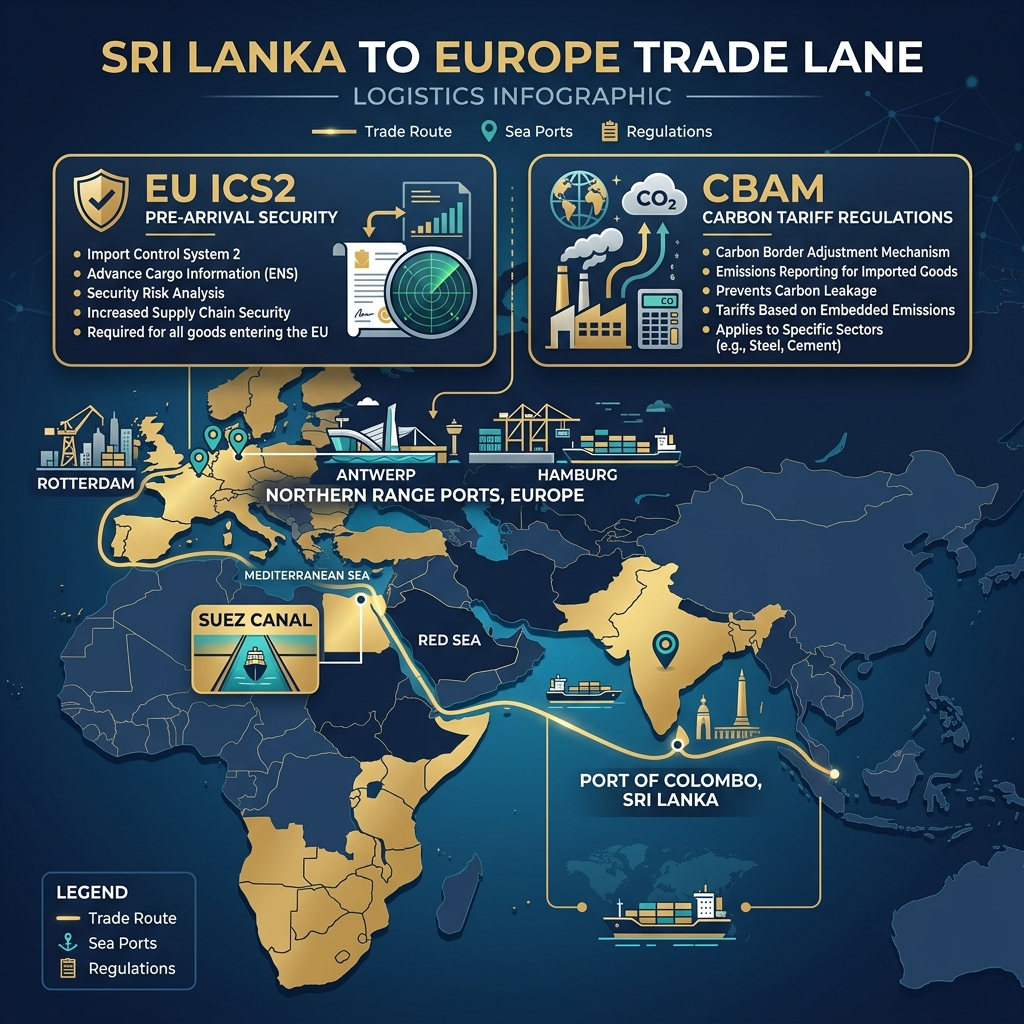
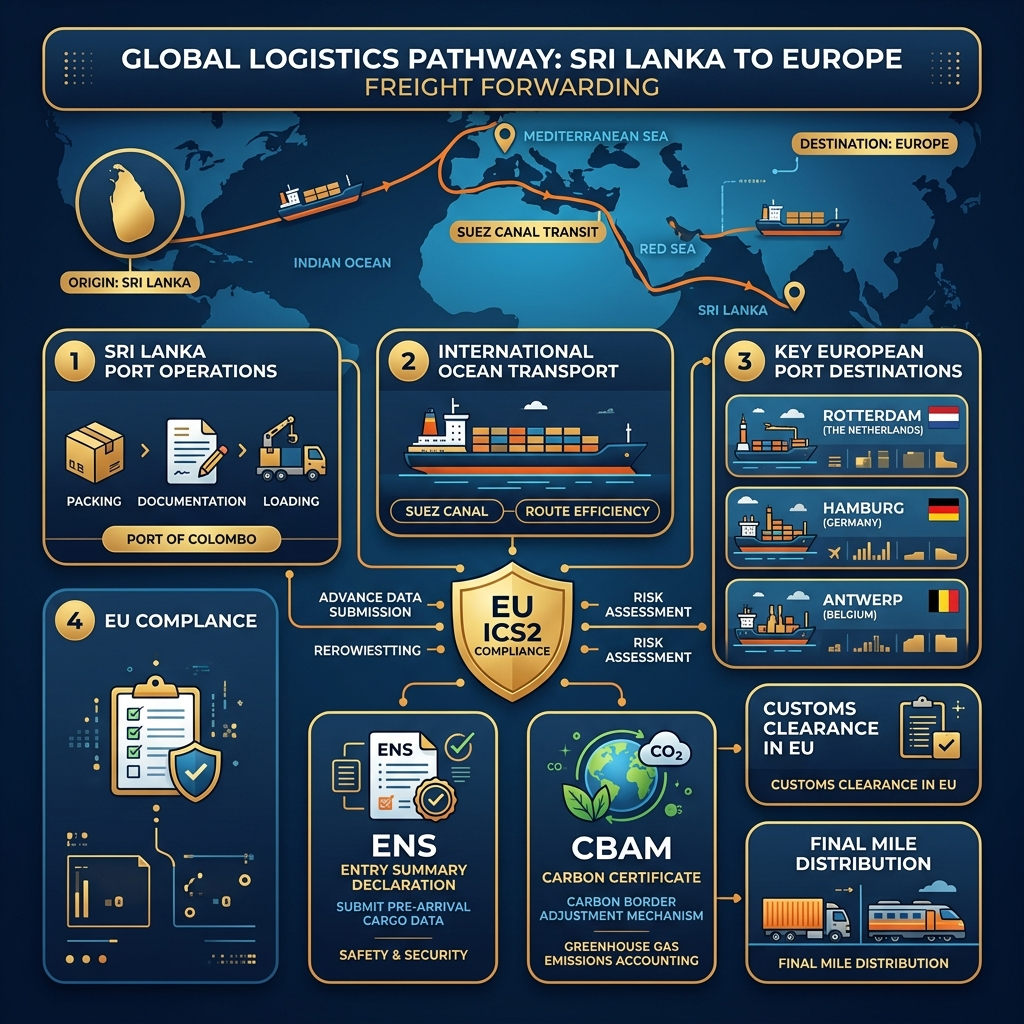
8 11 1

diff --git a/knowledge_base.js b/knowledge_base.js
@@ -2046,6 +2046,61 @@ var NEXUS_KNOWLEDGE_BASE = window.NEXUS_KNOWLEDGE_BASE = {
             </ul>
           `,
           youtube: "https://www.youtube.com/embed/fK6aeyEQMGk"
+        },
+        {
+          id: "fmc-rate-filing",
+          title: "FMC Rate Filing",
+          summary: "US Federal Maritime Commission tariffs, NRAs, NSAs, and OSRA 2022 compliance.",
+          image: "images/fmc_rate_filing.png",
+          content: `
+            <img src="images/fmc_rate_filing.png" alt="fmc-rate-filing infographic" class="kb-infographic" />
+
+            <p>In US ocean freight shipping, the <strong>Federal Maritime Commission (FMC)</strong> strictly regulates all ocean common carriers (VOCCs) and Non-Vessel Operating Common Carriers (NVOCCs) under the Shipping Act of 1984, OSRA 1998, and the <strong>Ocean Shipping Reform Act of 2022 (OSRA 2022)</strong>. All rates, surcharges, and rules applied to US import and export shipments must be filed or published in strict accordance with FMC regulations.</p>
+
+            <div style="margin:30px 0; background: linear-gradient(135deg, #0F172A 0%, #1E293B 100%); border:2px solid #38BDF8; padding:25px; border-radius:16px; font-family:'Outfit', sans-serif; color:#FFF;">
+              <h4 style="margin:0 0 15px 0; color:#38BDF8; font-size:1.3rem; text-align:center;">🏛 THE 3 CORE FMC COMPLIANCE PATHWAYS FOR NVOCCs</h4>
+              <p style="font-size:0.95rem; color:#94A3B8; line-height:1.6; margin:0 0 20px 0; text-align:center;">An NVOCC shipping ocean cargo to or from the United States cannot simply quote rates verbally. They must operate under one of three legally binding FMC tariff frameworks:</p>
+              
+              <div style="display:grid; grid-template-columns: repeat(auto-fit, minmax(220px, 1fr)); gap:15px;">
+                <div style="background:rgba(255,255,255,0.06); border:1px solid rgba(255,255,255,0.15); padding:20px; border-radius:12px; border-top:4px solid #38BDF8;">
+                  <strong style="color:#38BDF8; font-size:1.1rem; display:block; margin-bottom:8px;">1. Automated Public Tariffs (46 CFR Part 520)</strong>
+                  <p style="font-size:0.88rem; color:#CBD5E1; line-height:1.5; margin:0;">Historically mandatory for all rates. Rates, rules, and surcharges are published in an electronic public tariff system accessible 24/7 to the public. Subject to strict advance notice rules.</p>
+                </div>
+
+                <div style="background:rgba(255,255,255,0.06); border:1px solid rgba(255,255,255,0.15); padding:20px; border-radius:12px; border-top:4px solid #F59E0B;">
+                  <strong style="color:#F59E0B; font-size:1.1rem; display:block; margin-bottom:8px;">2. NRAs (Negotiated Rate Arrangements - 46 CFR Part 532)</strong>
+                  <p style="font-size:0.88rem; color:#CBD5E1; line-height:1.5; margin:0;">The most common exemption. Allows NVOCCs and shippers to agree on a specific spot rate in writing (e.g., email or quotation) prior to cargo receipt at origin, exempting the rate from public tariff filing.</p>
+                </div>
+
+                <div style="background:rgba(255,255,255,0.06); border:1px solid rgba(255,255,255,0.15); padding:20px; border-radius:12px; border-top:4px solid #10B981;">
+                  <strong style="color:#10B981; font-size:1.1rem; display:block; margin-bottom:8px;">3. NSAs (NVOCC Service Arrangements - 46 CFR Part 531)</strong>
+                  <p style="font-size:0.88rem; color:#CBD5E1; line-height:1.5; margin:0;">Written service contracts between an NVOCC and a shipper for committed minimum volume over a defined time period. Confidential terms are filed directly with the FMC.</p>
+                </div>
+              </div>
+            </div>
+
+            <div style="margin:30px 0; background:#FFFBEB; border:2px solid #FDE68A; padding:25px; border-radius:16px; font-family:'Outfit', sans-serif;">
+              <h4 style="margin:0 0 15px 0; color:#B45309; font-size:1.2rem;">⏱ THE 30-DAY ADVANCE NOTICE RULE & OTI BONDS</h4>
+              
+              <div style="display:flex; flex-direction:column; gap:15px;">
+                <div style="background:#FFF; padding:18px; border-radius:10px; border-left:4px solid #D97706; box-shadow:0 2px 4px rgba(0,0,0,0.05);">
+                  <strong style="color:#92400E; font-size:1.05rem; display:block; margin-bottom:5px;">Mandatory 30-Day Notice for Rate Increases</strong>
+                  <p style="font-size:0.92rem; color:#78350F; line-height:1.6; margin:0;">Under FMC tariff rules, any change that <em>increases</em> a published ocean freight rate or surcharge (GRI, PSS, BAF) cannot take effect until <strong>30 days AFTER</strong> it is publicly filed. However, rate reductions can take effect immediately upon filing.</p>
+                </div>
+
+                <div style="background:#FFF; padding:18px; border-radius:10px; border-left:4px solid #D97706; box-shadow:0 2px 4px rgba(0,0,0,0.05);">
+                  <strong style="color:#92400E; font-size:1.05rem; display:block; margin-bottom:5px;">Ocean Transportation Intermediary (OTI) Bonds</strong>
+                  <p style="font-size:0.92rem; color:#78350F; line-height:1.6; margin:0;">To legally issue House Bills of Lading on US trade lanes, US-licensed NVOCCs must post a <strong>$75,000 financial bond</strong> (+ $10,000 per branch). Foreign un-licensed NVOCCs operating in US trades must maintain a <strong>$150,000 FMC bond</strong> and file a Form FMC-60 registration.</p>
+                </div>
+
+                <div style="background:#FFF; padding:18px; border-radius:10px; border-left:4px solid #D97706; box-shadow:0 2px 4px rgba(0,0,0,0.05);">
+                  <strong style="color:#92400E; font-size:1.05rem; display:block; margin-bottom:5px;">OSRA 2022 & Detention & Demurrage Billing Mandates</strong>
+                  <p style="font-size:0.92rem; color:#78350F; line-height:1.6; margin:0;">Enacted under the Ocean Shipping Reform Act of 2022, carriers and NVOCCs issuing Detention or Demurrage invoices must include 13 mandatory data elements (e.g., container availability date, free time dates, specific billing parties). Invoices missing required data are completely void under US federal law.</p>
+                </div>
+              </div>
+            </div>
+          `,
+          youtube: "https://www.youtube.com/embed/fPb_1jIbaOs"
         }
       ]
     },
@@ -2830,7 +2885,7 @@ var NEXUS_KNOWLEDGE_BASE = window.NEXUS_KNOWLEDGE_BASE = {
         {
           id: "sri-lanka-to-usa",
           title: "Sri Lanka to USA",
-          summary: "ISF compliance and ports routing.",
+          summary: "ISF 10+2 & AMS compliance, ports routing, and transit times.",
           image: "images/sri_lanka_to_usa.png",
           content: `
             <img src="images/sri_lanka_to_usa.png" alt="sri-lanka-to-usa infographic" class="kb-infographic" />
@@ -2866,13 +2921,13 @@ var NEXUS_KNOWLEDGE_BASE = window.NEXUS_KNOWLEDGE_BASE = {
             </div>
             
             <div style="margin:30px 0; background:#FFF1F2; border: 2px solid #FDA4AF; padding:25px; border-radius:16px; font-family:'Outfit', sans-serif;">
-              <h4 style="margin:0 0 15px 0; color:#9F1239; font-size: 1.2rem;">🛡 THE ISF 10+2 MANDATE (IMPORTER SECURITY FILING)</h4>
-              <p style="font-size:0.95rem; color:#881337; line-height:1.6; margin:0 0 15px 0;">Post-9/11, U.S. Customs and Border Protection (CBP) enacted strict maritime security laws. The most critical for exporters from Sri Lanka is the <strong>ISF 10+2</strong> rule.</p>
+              <h4 style="margin:0 0 15px 0; color:#9F1239; font-size: 1.2rem;">🛡 US CUSTOMS COMPLIANCE: ISF 10+2 & AMS FILINGS</h4>
+              <p style="font-size:0.95rem; color:#881337; line-height:1.6; margin:0 0 15px 0;">Post-9/11, U.S. Customs and Border Protection (CBP) enacted strict security mandates. For exporters from Sri Lanka to the USA, two critical electronic filings are required prior to vessel departure:</p>
               
               <ul style="margin:0; padding-left:20px; font-size:0.9rem; color:#9F1239; line-height:1.7;">
-                <li><strong>The 24-Hour Rule:</strong> The electronic ISF data MUST be successfully transmitted and accepted by US Customs at least <strong>24 hours BEFORE</strong> the container is loaded onto the mother vessel at the Port of Colombo.</li>
-                <li><strong>The Consequence:</strong> If a container is loaded without an accepted ISF on file, the US importer will be hit with a mandatory <strong>$5,000 fine per container</strong> upon arrival in the US.</li>
-                <li><strong>Data Elements:</strong> Requires 10 data points from the importer (Manufacturer, Seller, Buyer, Ship-to party, etc.) and 2 from the carrier (Vessel Stow Plan, Container Status Messages).</li>
+                <li style="margin-bottom:10px;"><strong>1. AMS (Automated Manifest System):</strong> Ocean carriers and NVOCCs/Freight Forwarders must transmit full electronic Master & House Bill of Lading cargo manifest data to US CBP at least <strong>24 hours BEFORE</strong> loading at origin.</li>
+                <li style="margin-bottom:10px;"><strong>2. ISF 10+2 (Importer Security Filing):</strong> Transmitted electronically by the US Importer at least <strong>24 hours BEFORE</strong> vessel departure from origin port. Missing or late filing incurs a mandatory <strong>$5,000 fine per container</strong>.</li>
+                <li><strong>Data Elements:</strong> ISF requires 10 data points from the importer (Manufacturer, Seller, Buyer, Ship-to party, etc.) and 2 from the carrier (Vessel Stow Plan, Container Status Messages).</li>
               </ul>
             </div>
           `,
@@ -2881,7 +2936,7 @@ var NEXUS_KNOWLEDGE_BASE = window.NEXUS_KNOWLEDGE_BASE = {
         {
           id: "sri-lanka-to-canada",
           title: "Sri Lanka to Canada",
-          summary: "Routing to Montreal and Vancouver gateways.",
+          summary: "ACI eManifest compliance, Montreal and Vancouver gateways.",
           image: "images/sri_lanka_to_canada.png",
           content: `
             <img src="images/sri_lanka_to_canada.png" alt="sri-lanka-to-canada infographic" class="kb-infographic" />
@@ -2909,14 +2964,17 @@ var NEXUS_KNOWLEDGE_BASE = window.NEXUS_KNOWLEDGE_BASE = {
               </div>
             </div>
             
-            <p><strong>Customs Critical (eManifest):</strong> Similar to the US ISF, Canada requires an Advance Commercial Information (ACI) filing via the eManifest system. Freight forwarders must transmit electronic house bill data to the CBSA 24 hours prior to loading at the port of origin.</p>
+            <div style="margin:25px 0; background:#EFF6FF; border-left:4px solid #2563EB; padding:20px; border-radius:0 12px 12px 0; font-family:'Outfit', sans-serif;">
+              <h4 style="margin:0 0 10px 0; color:#1E40AF; font-size:1.15rem;">🇨🇦 CUSTOMS CRITICAL: ACI eMANIFEST FILING</h4>
+              <p style="margin:0; font-size:0.95rem; color:#1E3A8A; line-height:1.6;">Similar to the <strong>US AMS</strong> filing, Canada requires an <strong>Advance Commercial Information (ACI)</strong> filing via the <strong>eManifest</strong> system. Freight forwarders and carriers must transmit electronic House Bill of Lading (eHBL) and primary manifest data to the Canada Border Services Agency (CBSA) at least <strong>24 hours prior to loading</strong> at the port of origin.</p>
+            </div>
           `,
           youtube: "https://www.youtube.com/embed/fxvM0iVjM90"
         },
         {
           id: "sri-lanka-to-europe",
           title: "Sri Lanka to Europe",
-          summary: "Suez Canal routing and ICS2 customs guidelines.",
+          summary: "Suez Canal routing, ICS2 and ENS Entry Summary Declaration.",
           image: "images/sri_lanka_to_europe.png",
           content: `
             <img src="images/sri_lanka_to_europe.png" alt="sri-lanka-to-europe infographic" class="kb-infographic" />
@@ -2928,8 +2986,8 @@ var NEXUS_KNOWLEDGE_BASE = window.NEXUS_KNOWLEDGE_BASE = {
               
               <div style="display:flex; flex-direction:column; gap:15px;">
                 <div style="background:#FFF; padding:20px; border-radius:12px; border-left:4px solid #D97706; box-shadow: 0 2px 4px rgba(0,0,0,0.05);">
-                  <strong style="color:#92400E; font-size: 1.1rem; display:block; margin-bottom:8px;">ICS2 (Import Control System 2) Compliance</strong>
-                  <p style="font-size:0.95rem; color:#78350F; line-height:1.6; margin:0;">The European Union operates a massive, interconnected security framework. Before any cargo is loaded onto a ship destined for or transiting through the EU, the forwarder must transmit a detailed <strong>ENS (Entry Summary Declaration)</strong>. This allows EU Customs to screen the cargo data for terrorism, weapons, or contraband risks while the ship is still sitting in the Port of Colombo.</p>
+                  <strong style="color:#92400E; font-size: 1.1rem; display:block; margin-bottom:8px;">ICS2 Compliance & ENS (Entry Summary Declaration)</strong>
+                  <p style="font-size:0.95rem; color:#78350F; line-height:1.6; margin:0;">The European Union operates a strict maritime security framework under <strong>ICS2 (Import Control System 2)</strong>. Before any container is loaded onto a ship destined for or transiting through the EU, the freight forwarder or carrier must electronically submit a detailed <strong>ENS (Entry Summary Declaration)</strong>. This allows EU Customs to screen cargo risk while the ship is still sitting in the Port of Colombo.</p>
                 </div>
                 
                 <div style="background:#FFF; padding:20px; border-radius:12px; border-left:4px solid #D97706; box-shadow: 0 2px 4px rgba(0,0,0,0.05);">
